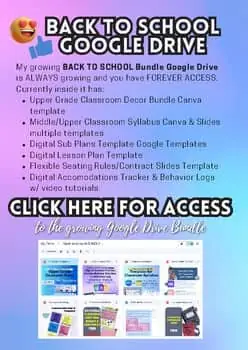
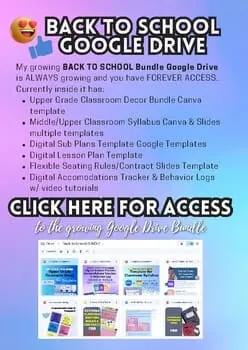
Add Back to School Drive cover to the teacher section callout
Claude-Session: https://claude.ai/code/session_01HngGZdkgnwmBHx3NK7U2ee

diff --git a/index.html b/index.html
@@ -333,6 +333,15 @@ p { margin: 0; }
 .cta-box { display: grid; gap: 14px; justify-items: center; max-width: 680px; margin-top: 8px; padding: 20px 24px; background: var(--tint-sun); border: 3px solid var(--line); border-radius: 20px; box-shadow: var(--shadow); }
 .cta-box p { font-size: 1.05rem; }
 .cta-box .btn { background: var(--sun); color: #2E2458; }
+.cta-box { grid-template-columns: 150px minmax(0, 1fr); align-items: center; justify-items: start; text-align: left; max-width: 760px; gap: 22px; }
+.cta-cover { display: block; transform: rotate(-3deg); }
+.cta-cover img { display: block; width: 100%; height: auto; border-radius: 10px; border: 3px solid var(--ink); box-shadow: 5px 5px 0 var(--ink); }
+.cta-copy { display: grid; gap: 14px; justify-items: start; min-width: 0; }
+@media (max-width: 640px) {
+  .cta-box { grid-template-columns: minmax(0, 1fr); justify-items: center; text-align: center; }
+  .cta-cover { width: 140px; }
+  .cta-copy { justify-items: center; }
+}
 
 </style>
 
@@ -734,8 +743,9 @@ p { margin: 0; }
 
   <section class="wrap block search-zone" aria-labelledby="teacher-h" id="teacher">
     <div class="block-head"><h2 id="teacher-h" class="section-title">For You, the Teacher</h2><p class="block-sub">AI, tech, and planning tools to get your time back. Because you deserve your weekends!</p><div class="cta-box">
-      <p><strong>Want ALL my guides in one place?</strong> Grab my Back to School Growing Drive. It's packed with my AI tools and guides, plus everything you need to set up a smooth school year where YOU are in charge of your plans (not the other way around).</p>
-      <a class="btn" href="https://mrsarabiarocks.thrivecart.com/back-to-school-growing-drive/" target="_blank" rel="noopener">Get the Back to School Drive<svg viewBox="0 0 24 24" aria-hidden="true"><path d="M5 12h12m-5-6 6 6-6 6" fill="none" stroke="currentColor" stroke-width="2.8" stroke-linecap="round" stroke-linejoin="round"/></svg></a>
+      <a class="cta-cover" href="https://mrsarabiarocks.thrivecart.com/back-to-school-growing-drive/" target="_blank" rel="noopener"><img src="covers/bts.webp" alt="Back to School Growing Google Drive" loading="lazy"></a>
+      <div class="cta-copy"><p><strong>Want ALL my guides in one place?</strong> Grab my Back to School Growing Drive. It's packed with my AI tools and guides, plus everything you need to set up a smooth school year where YOU are in charge of your plans (not the other way around).</p>
+      <a class="btn" href="https://mrsarabiarocks.thrivecart.com/back-to-school-growing-drive/" target="_blank" rel="noopener">Get the Back to School Drive<svg viewBox="0 0 24 24" aria-hidden="true"><path d="M5 12h12m-5-6 6 6-6 6" fill="none" stroke="currentColor" stroke-width="2.8" stroke-linecap="round" stroke-linejoin="round"/></svg></a></div>
     </div></div>
     <div class="grid"><article class="card card-violet" data-search="annotation unlocked build annotation packets for any text, any grade, in about 10 minutes with ai. ai annotation ">
   <div class="cover"><img src="covers/annotunlock.webp" alt="" loading="lazy"></div>

diff --git a/_source/style.css b/_source/style.css
@@ -321,3 +321,12 @@ p { margin: 0; }
 .cta-box { display: grid; gap: 14px; justify-items: center; max-width: 680px; margin-top: 8px; padding: 20px 24px; background: var(--tint-sun); border: 3px solid var(--line); border-radius: 20px; box-shadow: var(--shadow); }
 .cta-box p { font-size: 1.05rem; }
 .cta-box .btn { background: var(--sun); color: #2E2458; }
+.cta-box { grid-template-columns: 150px minmax(0, 1fr); align-items: center; justify-items: start; text-align: left; max-width: 760px; gap: 22px; }
+.cta-cover { display: block; transform: rotate(-3deg); }
+.cta-cover img { display: block; width: 100%; height: auto; border-radius: 10px; border: 3px solid var(--ink); box-shadow: 5px 5px 0 var(--ink); }
+.cta-copy { display: grid; gap: 14px; justify-items: start; min-width: 0; }
+@media (max-width: 640px) {
+  .cta-box { grid-template-columns: minmax(0, 1fr); justify-items: center; text-align: center; }
+  .cta-cover { width: 140px; }
+  .cta-copy { justify-items: center; }
+}

diff --git a/_source/build.py b/_source/build.py
@@ -132,8 +132,9 @@ def build():
         </div>'''
 
     bts_cta = f'''<div class="cta-box">
-      <p><strong>Want ALL my guides in one place?</strong> Grab my Back to School Growing Drive. It's packed with my AI tools and guides, plus everything you need to set up a smooth school year where YOU are in charge of your plans (not the other way around).</p>
-      {a(C.TC + "back-to-school-growing-drive/", "Get the Back to School Drive" + ARROW, "btn")}
+      <a class="cta-cover" href="{e(C.TC + "back-to-school-growing-drive/")}" target="_blank" rel="noopener"><img src="{img_src("bts")}" alt="Back to School Growing Google Drive" loading="lazy"></a>
+      <div class="cta-copy"><p><strong>Want ALL my guides in one place?</strong> Grab my Back to School Growing Drive. It's packed with my AI tools and guides, plus everything you need to set up a smooth school year where YOU are in charge of your plans (not the other way around).</p>
+      {a(C.TC + "back-to-school-growing-drive/", "Get the Back to School Drive" + ARROW, "btn")}</div>
     </div>'''
 
     ff = C.FAN_FAVORITE
